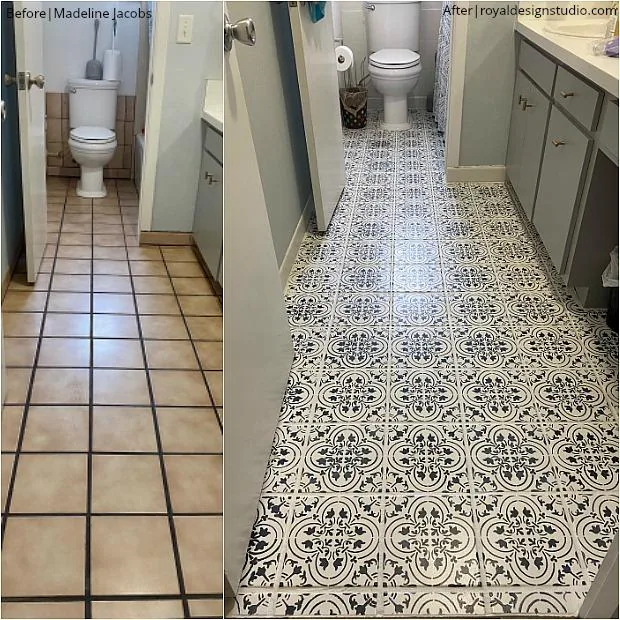
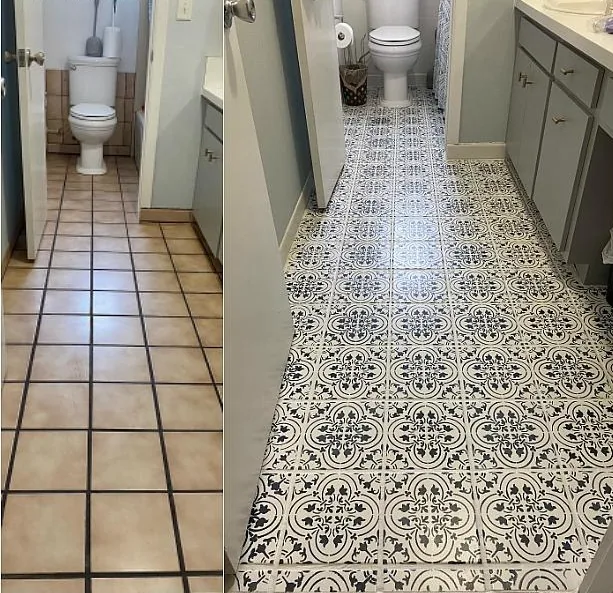
Refine fliesenleger mobile hero

diff --git a/styles.css b/styles.css
@@ -2272,20 +2272,34 @@ body.nav-open .mobile-menu {
   }
 
   .page-fliesenleger .hero {
-    min-height: min(780px, calc(100svh - 82px));
-    padding: 98px 16px 34px;
+    min-height: 0;
+    padding: calc((100vw * 9 / 16) + 34px) 16px 44px;
+    background: linear-gradient(180deg, #4f585a 0%, #18232d 100%);
   }
 
   .page-fliesenleger .hero-media.is-fliesenleger {
-    background-position: center top;
-    background-size: contain;
+    inset: 0 0 auto;
+    height: calc(100vw * 9 / 16);
+    background-position: center;
+    background-size: cover;
     background-repeat: no-repeat;
-    background-color: #e8e6df;
+    background-color: #dde0dc;
   }
 
   .page-fliesenleger .hero-overlay {
     background:
-      linear-gradient(180deg, rgba(7, 16, 25, 0) 0%, rgba(7, 16, 25, 0.08) 48%, rgba(7, 16, 25, 0.72) 100%);
+      linear-gradient(180deg, rgba(7, 16, 25, 0.06) 0%, rgba(7, 16, 25, 0.08) 32%, rgba(7, 16, 25, 0) 32.1%);
+  }
+
+  .page-fliesenleger .hero-stamp {
+    top: calc((100vw * 9 / 16) - 58px);
+    right: 16px;
+    width: clamp(68px, 20vw, 86px);
+  }
+
+  .page-fliesenleger h1 {
+    font-size: clamp(2rem, 9vw, 2.7rem);
+    line-height: 1.08;
   }
 
   h1 {

diff --git a/fliesenleger-mannheim/index.html b/fliesenleger-mannheim/index.html
@@ -8,7 +8,7 @@
       name="description"
       content="Fliesenleger in Mannheim gesucht? Onkel Dienstleistungen unterstützt bei Fliesenverlegung, Fliesenarbeiten, Badfliesen, Bodenfliesen, Wandfliesen, Reparaturen und Sanierung. Jetzt anfragen."
     />
-    <link rel="stylesheet" href="../styles.css?v=107" />
+    <link rel="stylesheet" href="../styles.css?v=109" />
     <link rel="icon" type="image/png" sizes="48x48" href="/favicon-48x48.png" />
     <link rel="icon" type="image/png" sizes="192x192" href="/android-chrome-192x192.png" />
     <link rel="icon" href="/favicon.ico" sizes="any" />
